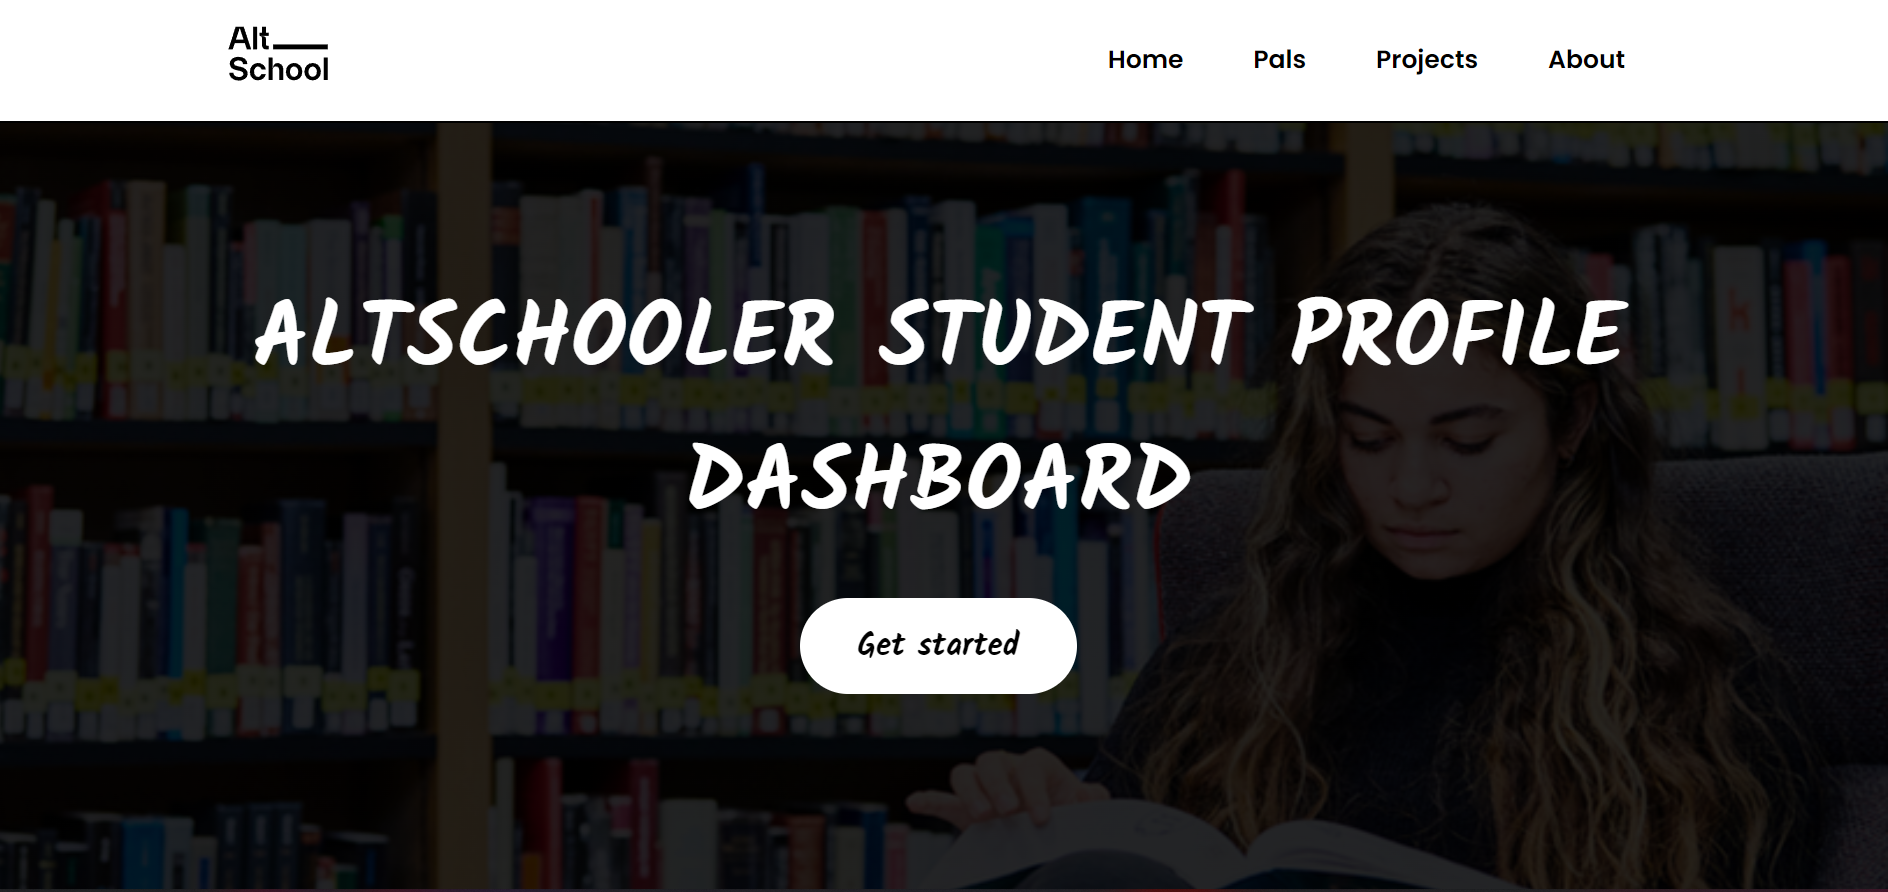
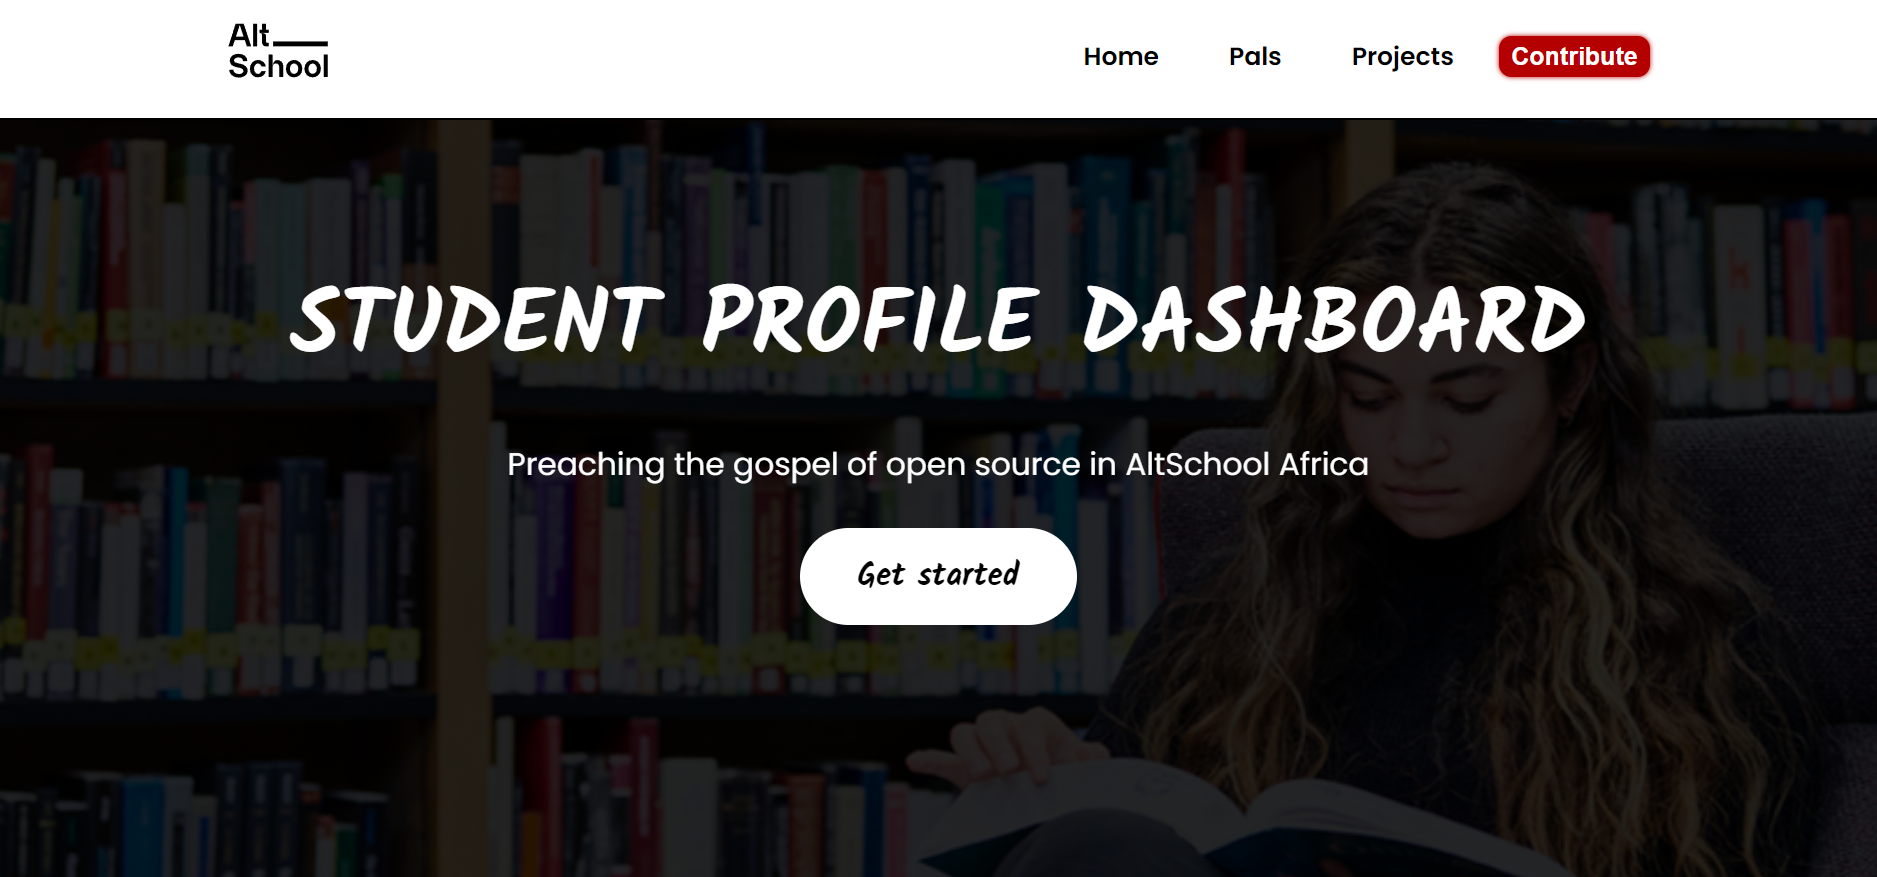
README COMPLETED

diff --git a/js/members.js b/js/members.js
@@ -113,7 +113,7 @@ const search = async()=> {
          
   
           <a id="media-link" target =_blank href=${portfolio}
-            ><i class="fab fa-portfolio"></i
+            ><i class="fa fa-briefcase" ></i
           ></a>
   
          
@@ -197,9 +197,9 @@ const displayAllStudent = (allstudent) => {
 
        
 
-        <a id="media-link" target =_blank href=${portfolio}
-          ><i class="fab fa-portfolio"></i
-        ></a>
+       <a id="media-link" target =_blank href=${portfolio}
+       ><i class="fa fa-briefcase" ></i
+     ></a>
 
        
       </div>
@@ -289,9 +289,9 @@ const allStudent = async ()=>{
 
        
 
-        <a id="media-link" target =_blank href=${portfolio}
-          ><i class="fab fa-portfolio"></i
-        ></a>
+       <a id="media-link" target =_blank href=${portfolio}
+       ><i class="fa fa-briefcase" ></i
+     ></a>
 
        
       </div>
@@ -385,9 +385,9 @@ return item.track === "Frontend Engineering"
 
        
 
-        <a id="media-link" target =_blank href=${portfolio}
-          ><i class="fab fa-portfolio"></i
-        ></a>
+       <a id="media-link" target =_blank href=${portfolio}
+       ><i class="fa fa-briefcase" ></i
+     ></a>
 
        
       </div>
@@ -479,6 +479,9 @@ return item.track === "Backend Engineering"
        </a> 
 
        
+       <a id="media-link" target =_blank href=${portfolio}
+       ><i class="fa fa-briefcase" ></i
+     ></a>
 
        
 
@@ -567,14 +570,14 @@ return item.track === "Cloud Engineering"
       id="media-link" target =_blank
       href=${twitter}
     >
-          <i class="fab fa-twitter"></i>
+          <i class="fab fa-t"></i>
        </a> 
 
        
 
-        <a id="media-link" target =_blank href=${portfolio}
-          ><i class="fab fa-portfolio"></i
-        ></a>
+       <a id="media-link" target =_blank href=${portfolio}
+       ><i class="fa fa-briefcase" ></i
+     ></a>
 
        
       </div>

diff --git a/cssfiles/style.css b/cssfiles/style.css
@@ -78,22 +78,7 @@ body {
 
   }
   
-  .getstarted span:after {
-    content: '\00bb';
-    position: absolute;
-    opacity: 0;
-    top: -15px;
-     right: -10px;
-    transition: 0.5s;
-    font-size: 50px;
-    
-    
-  }
-  
-  .getstarted:hover span {
-    padding-right: 25px;
-  }
-  
+  /*  */
   .getstarted:hover span:after {
     opacity: 1;
     right: 0;
@@ -102,9 +87,9 @@ body {
 
 /* end of button */
 
-aside, #video {
-    /* margin-top: 7em; */
-    /* padding: 7% 12%; */
+aside {
+     margin-top: 7em; 
+     padding: 7% 12%; 
 }
 
 

diff --git a/index.html b/index.html
@@ -58,7 +58,7 @@
           <h2 class="hello"> Student Profile Dashboard</h2>
           <p>Preaching the gospel of open source in AltSchool Africa</p>
 
-           <a class="getstarted" href="#video"><span>Get started</span></a>
+           <a class="getstarted" href="./htmlfiles/members.html"><span>Get started</span></a>
          
         </div>
       </article>

diff --git a/cssfiles/member.css b/cssfiles/member.css
@@ -212,10 +212,12 @@ text-align: center;
 
 .social-media{
   display: flex;
-  justify-content: center;
+ justify-content:space-between; 
   background-color: #000;
   border-radius: 5px;
-  gap:15px
+  padding: 0 5px;
+  
+  
   
 }
 .social-media a i{

diff --git a/htmlfiles/members.html b/htmlfiles/members.html
@@ -76,7 +76,7 @@
          
          
 
-          <!-- END OFZ TEMPLATE -->
+          <!-- END OF TEMPLATE -->
 
 
          

diff --git a/README.md b/README.md
@@ -1,6 +1,17 @@
 # Student Profile Dashboard
 Open-source stands for being transparent, sharing, and contributing to others’ projects to improve them or to modify them for your own. In any case, the essence of open-source is a large community of contributors.Please help us make this a massive project by contributing. You can also read through this file to learn how to make your contribution count. 
+
+
 GRACIAS
+
+<br>
+<br>
+<br>
+
+
+## NOTE:
+You don’t have to become a lifelong contributor to enjoy participating in open source. Have you ever seen a typo on a website, and wished someone would fix it? On an open source project, you can do just that. Open source helps people feel agency over their lives and how they experience the world, and that in itself is gratifying.
+
 
 
 <br>
@@ -49,7 +60,7 @@ GRACIAS
 
 - Check if all the requests pass and wait for us to merge into main
 
-- Thank you for contributing and making this project bigger, You forever in our heart
+- Thank you for contributing and making this project bigger, You are forever in our heart
 ---
 <br>
 <br>
